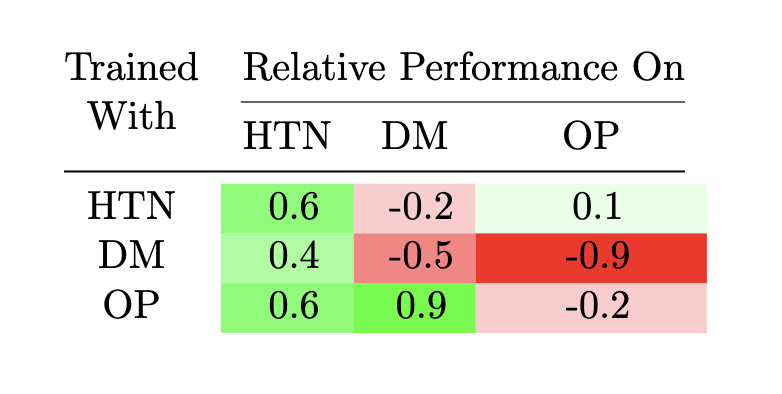
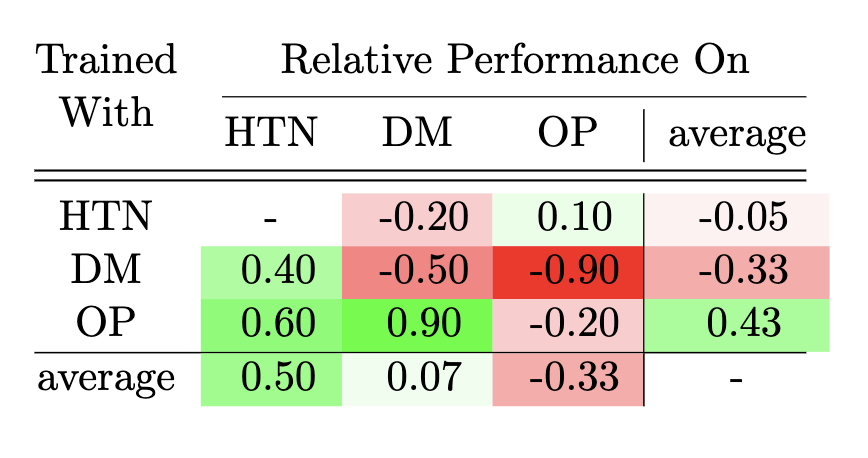
average and nan

diff --git a/src/two_axis_table.py b/src/two_axis_table.py
@@ -3,22 +3,30 @@ import numpy as np
 def gen_two_axis_table(table_name, col_labels, row_labels, col_axis_label, row_axis_label, vals, row_average = True, col_average = True, color = True, percent = True, decimals = 2):
     assert len(col_labels) == vals.shape[1], "length of column labels doesn't match vals axis 1 shape"
     assert len(row_labels) == vals.shape[0], "length of column labels doesn't match vals axis 0 shape"
-    if row_average:
-        row_averages = np.mean(vals, axis = 1)
-    if col_average:
-        col_averages = np.mean(vals, axis = 0)
+    
+    row_averages = []
+    for i in range(len(row_labels)):
+        row_averages.append(np.mean(vals[i, :][~np.isnan(vals[i, :])]))
+
+    col_averages = []
+    for i in range(len(col_labels)):
+        col_averages.append(np.mean(vals[:, i][~np.isnan(vals[:, i])]))
+
     to_write = f"\\documentclass[11pt]{{article}}\n\\usepackage[table]{{xcolor}}\n\\usepackage{{amsmath}}\n\\usepackage{{booktabs}}\n\\newcommand\headercell[1]{{\n\t\\smash[b]{{\\begin{{tabular}}[t]{{@{{}}c@{{}}}} #1 \\end{{tabular}}}}}}\n\\begin{{document}}\n\\noindent\n"
     
     # Edit this to distribute row axis label on two lines differently
     first_part = row_axis_label.split(" ")[0]
     second_part = row_axis_label.split(" ")[1]
 
-    if col_average:
+    if row_average:
         num_col_labels = len(col_labels) + 1
     else:
         num_col_labels = len(col_labels)
     
-    to_write += f"\\begin{{tabular}}{{@{{}} *{{{num_col_labels + 1}}}{{c}} @{{}}}}\n\\headercell{{{first_part} \\\\ {second_part}}} & \multicolumn{{{num_col_labels}}}{{c@{{}}}}{{{col_axis_label}}}\\\\\n\\cmidrule(l){{2-{num_col_labels + 1}}}\n"
+    if row_average:
+        to_write += f"\\begin{{tabular}}{{@{{}} *{{{num_col_labels}}}{{c}} | c @{{}}}}\n\\headercell{{{first_part} \\\\ {second_part}}} & \multicolumn{{{num_col_labels}}}{{c@{{}}}}{{{col_axis_label}}}\\\\\n\\cmidrule(l){{2-{num_col_labels + 1}}}\n"
+    else:
+        to_write += f"\\begin{{tabular}}{{@{{}} *{{{num_col_labels + 1}}}{{c}} @{{}}}}\n\\headercell{{{first_part} \\\\ {second_part}}} & \multicolumn{{{num_col_labels}}}{{c@{{}}}}{{{col_axis_label}}}\\\\\n\\cmidrule(l){{2-{num_col_labels + 1}}}\n"
     latex_script = open(f"../latex_scripts/{table_name}.tex","w")
     
     # Column labels
@@ -26,42 +34,72 @@ def gen_two_axis_table(table_name, col_labels, row_labels, col_axis_label, row_a
         to_write += f" & {col_label}"
     if row_average:
         to_write += f" & average"
-    to_write += f" \\\\ \n \midrule" 
+    to_write += f" \\\\ \n \\midrule \\midrule" 
 
     # Generate each row of the table
     for i, row_label in enumerate(row_labels):
         to_write += f"\n\t{row_label}"
 
         for j in range(len(col_labels)):
-            if color:
-                if vals[i, j] < 0:
-                    to_write += f"& \\cellcolor{{red!{np.abs(vals[i, j] * 100)}}} {vals[i, j]:.{decimals}f}"
-                else:
-                    to_write += f"& \\cellcolor{{green!{np.abs(vals[i, j] * 100)}}} {vals[i, j]:.{decimals}f}"
+            if np.isnan(vals[i, j]):
+                to_write += f" & -"
             else:
-                to_write += f" & {vals[i, j]:.{decimals}f}"
+                if color:
+                    if vals[i, j] < 0:
+                        if percent:
+                            to_write += f"& \\cellcolor{{red!{np.abs(vals[i, j])}}} {vals[i, j]:.{decimals}f}\%"
+                        else:
+                            to_write += f"& \\cellcolor{{red!{np.abs(vals[i, j] * 100)}}} {vals[i, j]:.{decimals}f}"
+                    else:
+                        if percent:
+                            to_write += f"& \\cellcolor{{green!{np.abs(vals[i, j])}}} {vals[i, j]:.{decimals}f}\%"
+                        else:
+                            to_write += f"& \\cellcolor{{green!{np.abs(vals[i, j] * 100)}}} {vals[i, j]:.{decimals}f}"
+                else:
+                    if percent:
+                        to_write += f" & {vals[i, j]:.{decimals}f}\%"
+                    else:
+                        to_write += f" & {vals[i, j]:.{decimals}f}"
 
         if row_average:
             if color:
                 if row_averages[i] < 0:
-                    to_write += f"& \\cellcolor{{red!{np.abs(row_averages[i] * 100)}}} {row_averages[i]:.{decimals}f}"
+                    if percent:
+                        to_write += f"& \\cellcolor{{red!{np.abs(row_averages[i])}}} {row_averages[i]:.{decimals}f}\%"
+                    else:
+                        to_write += f"& \\cellcolor{{red!{np.abs(row_averages[i] * 100)}}} {row_averages[i]:.{decimals}f}"
                 else:
-                    to_write += f"& \\cellcolor{{green!{np.abs(row_averages[i] * 100)}}} {row_averages[i]:.{decimals}f}"
+                    if percent:
+                        to_write += f"& \\cellcolor{{green!{np.abs(row_averages[i])}}} {row_averages[i]:.{decimals}f}\%"
+                    else:
+                        to_write += f"& \\cellcolor{{green!{np.abs(row_averages[i] * 100)}}} {row_averages[i]:.{decimals}f}"
             else:
-                to_write += f" & {row_averages[i]:.{decimals}f}"
+                if percent:
+                    to_write += f" & {row_averages[i]:.{decimals}f}\%"
+                else:
+                    to_write += f" & {row_averages[i]:.{decimals}f}"
 
         to_write += f"\\\\"
 
     if col_average:
-        to_write += f"\n\taverage"
+        to_write += f"\n\t \\hline \n\t average"
         for i in range(len(col_labels)):
             if color:
                 if col_averages[i] < 0:
-                    to_write += f"& \\cellcolor{{red!{np.abs(col_averages[i] * 100)}}} {col_averages[i]:.{decimals}f}"
+                    if percent:
+                        to_write += f"& \\cellcolor{{red!{np.abs(col_averages[i])}}} {col_averages[i]:.{decimals}f}\%"
+                    else:
+                        to_write += f"& \\cellcolor{{red!{np.abs(col_averages[i] * 100)}}} {col_averages[i]:.{decimals}f}"
                 else:
-                    to_write += f"& \\cellcolor{{green!{np.abs(col_averages[i] * 100)}}} {col_averages[i]:.{decimals}f}"
+                    if percent:
+                        to_write += f"& \\cellcolor{{green!{np.abs(col_averages[i])}}} {col_averages[i]:.{decimals}f}\%"
+                    else:
+                        to_write += f"& \\cellcolor{{green!{np.abs(col_averages[i] * 100)}}} {col_averages[i]:.{decimals}f}"
             else:
-                to_write += f"& {col_averages[i]:.{decimals}f}"
+                if percent:
+                    to_write += f"& {col_averages[i]:.{decimals}f}\%"
+                else:
+                    to_write += f"& {col_averages[i]:.{decimals}f}"
 
         if row_average:
             to_write += f" & -"

diff --git a/latex_scripts/two_axis_example.tex b/latex_scripts/two_axis_example.tex
@@ -6,14 +6,15 @@
 	\smash[b]{\begin{tabular}[t]{@{}c@{}} #1 \end{tabular}}}
 \begin{document}
 \noindent
-\begin{tabular}{@{} *{5}{c} @{}}
+\begin{tabular}{@{} *{4}{c} | c @{}}
 \headercell{Trained \\ With} & \multicolumn{4}{c@{}}{Relative Performance On}\\
 \cmidrule(l){2-5}
  & HTN & DM & OP & average \\ 
- \midrule
-	HTN& \cellcolor{green!60.0} 0.60& \cellcolor{red!20.0} -0.20& \cellcolor{green!10.0} 0.10& \cellcolor{green!16.666666666666664} 0.17\\
+ \midrule \midrule
+	HTN & -& \cellcolor{red!20.0} -0.20& \cellcolor{green!10.0} 0.10& \cellcolor{red!5.0} -0.05\\
 	DM& \cellcolor{green!40.0} 0.40& \cellcolor{red!50.0} -0.50& \cellcolor{red!90.0} -0.90& \cellcolor{red!33.33333333333333} -0.33\\
 	OP& \cellcolor{green!60.0} 0.60& \cellcolor{green!90.0} 0.90& \cellcolor{red!20.0} -0.20& \cellcolor{green!43.333333333333336} 0.43\\
-	average& \cellcolor{green!53.333333333333336} 0.53& \cellcolor{green!6.66666666666667} 0.07& \cellcolor{red!33.33333333333333} -0.33 & -
+	 \hline 
+	 average& \cellcolor{green!50.0} 0.50& \cellcolor{green!6.66666666666667} 0.07& \cellcolor{red!33.33333333333333} -0.33 & -
 \end{tabular}
 \end{document}

diff --git a/examples/two_axis_colored.py b/examples/two_axis_colored.py
@@ -3,11 +3,11 @@ import sys
 sys.path.append('../src')
 from two_axis_table import gen_two_axis_table
 
-vals = np.array([[0.6 , -0.2, 0.1], [0.4, -0.5, -0.9], [0.6, 0.9, -0.2]])
+vals = np.array([[np.nan, -0.2, 0.1], [0.4, -0.5, -0.9], [0.6, 0.9, -0.2]])
 col_labels = ['HTN', 'DM', 'OP']
 row_labels = ['HTN', 'DM', 'OP']
 col_axis_label = 'Relative Performance On'
 row_axis_label = 'Trained With'
 table_name = "two_axis_example"
 
-gen_two_axis_table(table_name, col_labels, row_labels, col_axis_label, row_axis_label, vals)
+gen_two_axis_table(table_name, col_labels, row_labels, col_axis_label, row_axis_label, vals, row_average = True, col_average = True, percent = False)
